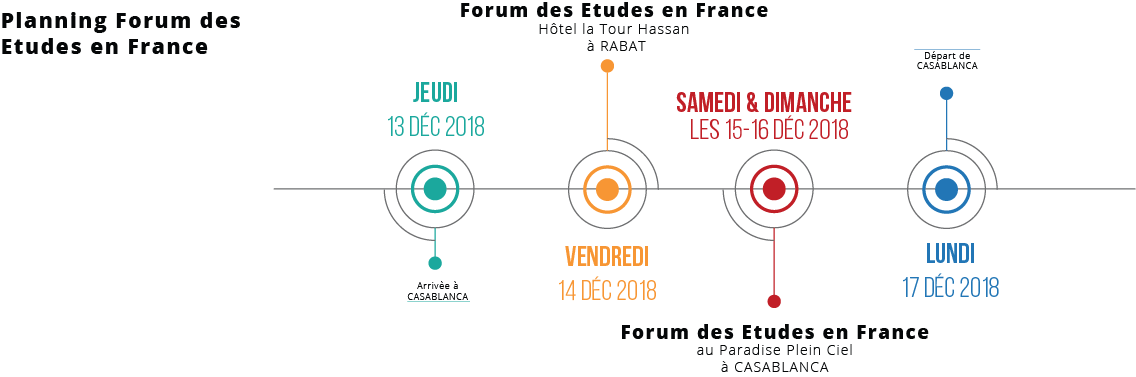
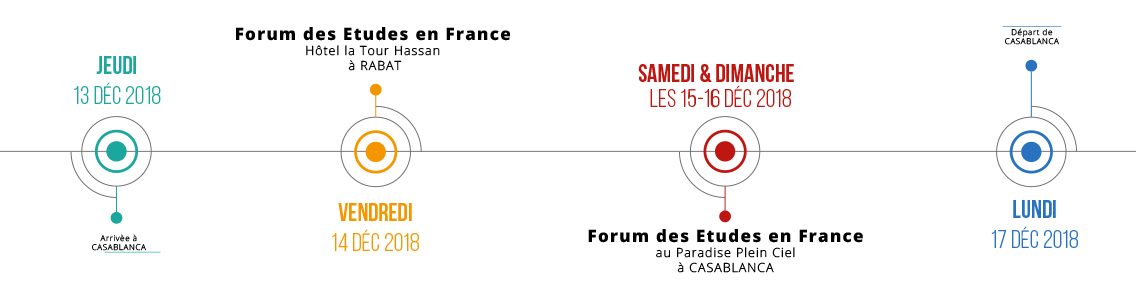
vf site

diff --git a/index.html b/index.html
@@ -137,6 +137,13 @@ p {
 h2 {
     font-size: 1.9em;
     line-height: 1;
+    color: #213e7a;
+    text-transform: uppercase;
+}
+
+h4 {
+
+    color: #213e7a;
 }
 
 .bg_t {background-color:#1c75bc; color:#fff; 
@@ -181,6 +188,53 @@ section.section {
   margin: 0;
 }
 
+.votre_espace h2 {
+
+  color:#fff;
+}
+
+.votre_espace p {
+
+  color:#fff;
+}
+
+
+.votre_espace .btn-borders.btn-primary {
+
+      background: transparent;
+    border-color: #fff;
+    color: #fff;
+    text-shadow: none;
+}
+
+.cnt {
+      background: #fff;
+    z-index: 2;
+    position: relative;
+    padding: 15px;
+}
+
+.cnt h4 {
+
+  color: #01267e !important;
+  font-weight: 600;
+  text-align: left;
+}
+
+
+.cnt li {
+
+  text-align: left;
+}
+
+.mt-xlg {
+  margin-top: 0 !important;
+}
+
+.app .text-color-light {
+
+  font-size: 18px;
+}
 
 
 
@@ -309,6 +363,8 @@ section.section {
             <div class="container mt-xlg mb-xlg">
                <div class="row mt-sm mb-sm">
                   <div class="counters counters-text-light">
+
+
                      <div class="col-xs-12 col-md-4 col-sm-6">
                         <div class="counter mb-lg mt-lg">
                            <img src="img/demos/event/counter/col1.png" class="img-responsive m-auto" alt="">
@@ -316,6 +372,8 @@ section.section {
                            <label class="text-color-light font-weight-normal text-uppercase center custom-font-size-2">Étudiants Marocains en France.</label>
                         </div>
                      </div>
+
+
                      <div class="col-xs-12 col-md-4 col-sm-6">
                         <div class="counter mb-lg mt-lg">
                            <img src="img/demos/event/counter/col2.png" class="img-responsive m-auto" alt="">
@@ -323,6 +381,8 @@ section.section {
                            <label class="text-color-light font-weight-normal text-uppercase center custom-font-size-2">Communauté Estudiantine Étrangère.</label>
                         </div>
                      </div>
+
+
                      <div class="col-xs-12 col-md-4 col-sm-6">
                         <div class="counter mb-lg mt-lg">
                            <img src="img/demos/event/counter/col3.png" class="img-responsive m-auto" alt="">
@@ -331,15 +391,13 @@ section.section {
                            en France.</label>
                         </div>
                      </div>
+
+
+
                   </div>
                </div>
-            </div>
-         </section>
 
-
-
-<div class="container" style="margin-top:20px;">
-<div class="row">
+               <div class="row cnt" >
                         <div class="col-md-6">
 
                            <h4> Venez à la rencontre de votre coeur de cible</h4>
@@ -373,8 +431,12 @@ d’antenne marocaine. </li>
                            </ul>
 
                         </div>
-                     </div>
-                     </div>
+                        </div>
+
+
+            </div>
+         </section>
+
               
 
 
@@ -382,10 +444,9 @@ d’antenne marocaine. </li>
                <div class="container">
                   <div class="row">
                      <div class="col-md-12 ">
+                      <h2><strong> Planning du Forum des Etudes en France </strong></h2>
                    
-                     
-                      
-
+                    
                       <img src="img/planning.png"  class="img_3 img-fluid">
                       <img src="img/planing_mobile.png"  class="img_4 img-fluid">
 
@@ -396,9 +457,7 @@ d’antenne marocaine. </li>
                </div>
             </section>
 
-     
-<section class="section section-default">
-   
+      <section class="mb-none  degradi votre_espace"  >
 
  <div class="container pt-xlg pb-xlg mt-xlg" >
             <div class="row pt-sm pb-xlg" >
@@ -407,7 +466,7 @@ d’antenne marocaine. </li>
                <div class="col-sm-7 col-md-7">
 
                <h2><strong> VOTRE ESPACE </strong></h2>
-                
+                <p> 
                               <strong>   Rabat : </strong> Journée d’exposition + Déplacement Inter-urbain
 Casablanca / Rabat / Casablanca
 + Déjeuner + Pauses cafés </br>
@@ -419,7 +478,7 @@ Enseigne + 1 Table + 3 Chaises + Badges + Corbeille
 <br>
 <br>
 
- <strong> Demander Votre Devis : </strong> <button type="button" class="btn btn-borders btn-primary btn-lg" style="margin-left:20px;"> Package Forfaitaire </button>  </strong> <button type="button" class="btn btn-borders btn-primary btn-lg" style="margin-left:20px;" > Prix à la Carte </button>
+ <strong> Demandez Votre Devis : </strong> <button type="button" class="btn btn-borders btn-primary btn-lg" style="margin-left:20px;"> Package Forfaitaire </button>  </strong> <button type="button" class="btn btn-borders btn-primary btn-lg" style="margin-left:20px;" > Prix à la Carte </button> </p>
 
 
 
@@ -499,7 +558,7 @@ participants. </li>
 
 
 
-<section class="section section-default">
+<section class="degradi votre_espace" style='padding-top:20px;'>
                <div class="container">
                   <div class="row">
                      <div class="col-md-9">
@@ -512,12 +571,47 @@ toutes les données sur les visiteurs (type de baccalauréat, niveau, lycée,
 coordonnées…). 
                         </p>
 
+                        <div class="row mt-sm mb-sm app">
+                  <div class="counters counters-text-light">
+
+
+                     <div class="col-xs-12 col-md-4 col-sm-6">
+                        <div class="counter mb-lg mt-lg">
+                           <img src="img/gain-de-temps.png" class="img-responsive m-auto" alt="">
+                           <strong class="text-color-light"> Gain de temps </strong>
+                     
+                        </div>
+                     </div>
+
+
+                     <div class="col-xs-12 col-md-4 col-sm-6">
+                        <div class="counter mb-lg mt-lg">
+                           <img src="img/analyse.png" class="img-responsive m-auto" alt="">
+                           <strong class="text-color-light"> Outil d'analyse de données</strong>
+                           
+                        </div>
+                     </div>
+
+
+                     <div class="col-xs-12 col-md-4 col-sm-6">
+                        <div class="counter mb-lg mt-lg">
+                           <img src="img/bdd.png" class="img-responsive m-auto" alt="">
+                           <strong class="text-color-light" > Marketing direct </strong>
+                         
+                        </div>
+                     </div>
+
+
+
+                  </div>
+               </div>
+
                         <button type="button" class="btn btn-borders btn-primary btn-lg"> En savoir Plus </button>
 
 
                      </div>
                      <div class="col-md-3">
-                        <img class="hidden-xs img-responsive appear-animation animated fadeInRight appear-animation-visible" style="margin-top: -110px;" src="img/updates.png" alt="" data-appear-animation="fadeInRight">
+                        <img class="hidden-xs img-responsive appear-animation animated fadeInRight appear-animation-visible" style="margin-top: -50px;" src="img/updates.png" alt="" data-appear-animation="fadeInRight">
                      </div>
                   </div>
                </div>
@@ -535,7 +629,7 @@ coordonnées…).
     </div>
 
    <div class="col-sm-7 col-md-7">
-                   <h2><strong>WWW.ETUDIANT.MA</strong></h2>
+                   <h2><strong> CAMPAGNE DIGITALE </strong></h2>
                         <p>
 Adresse incontournable des
 jeunes, le portail Etudiant.ma
@@ -553,6 +647,8 @@ et à l’Étranger.
 complète sur le portail et être garanti d’être vu par votre
 cible aussi bien au Maroc que dans les principaux pays
 de l’Afrique subsaharienne.</p>
+
+<div class="row" style="background-color:#ddd; padding:10px;"> 
                         <h5>Cibles</h5>
 
                                              <ul class="portfolio-details" >
@@ -580,6 +676,7 @@ de l’Afrique subsaharienne.</p>
                      
                      </ul>
 
+    </div>
     </div>
 
 
